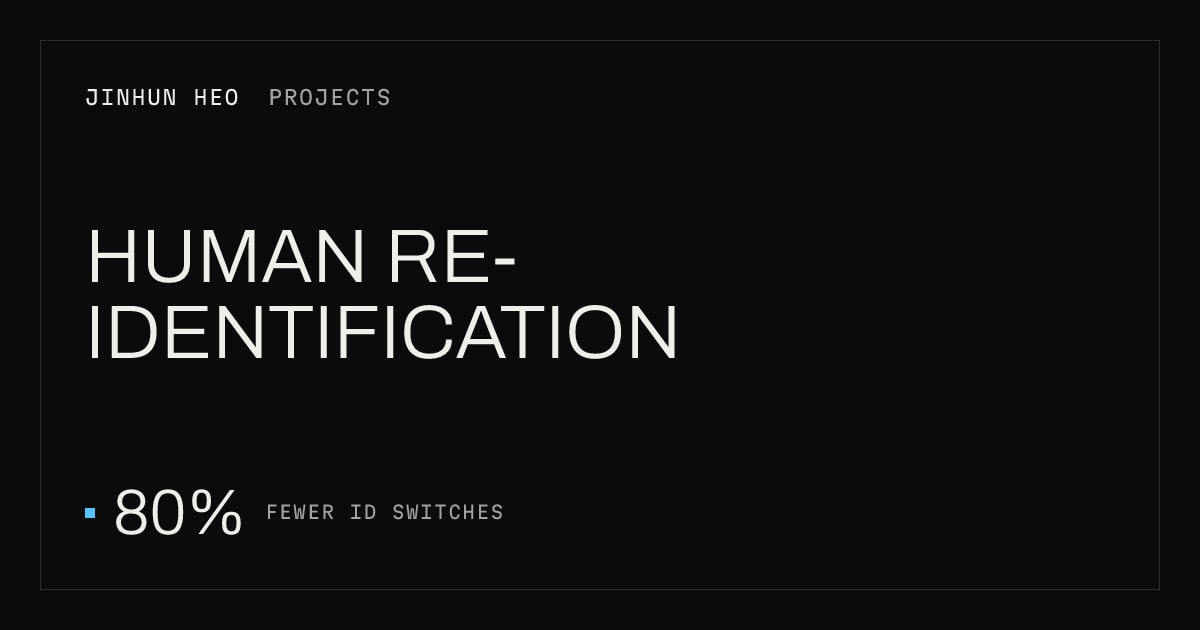
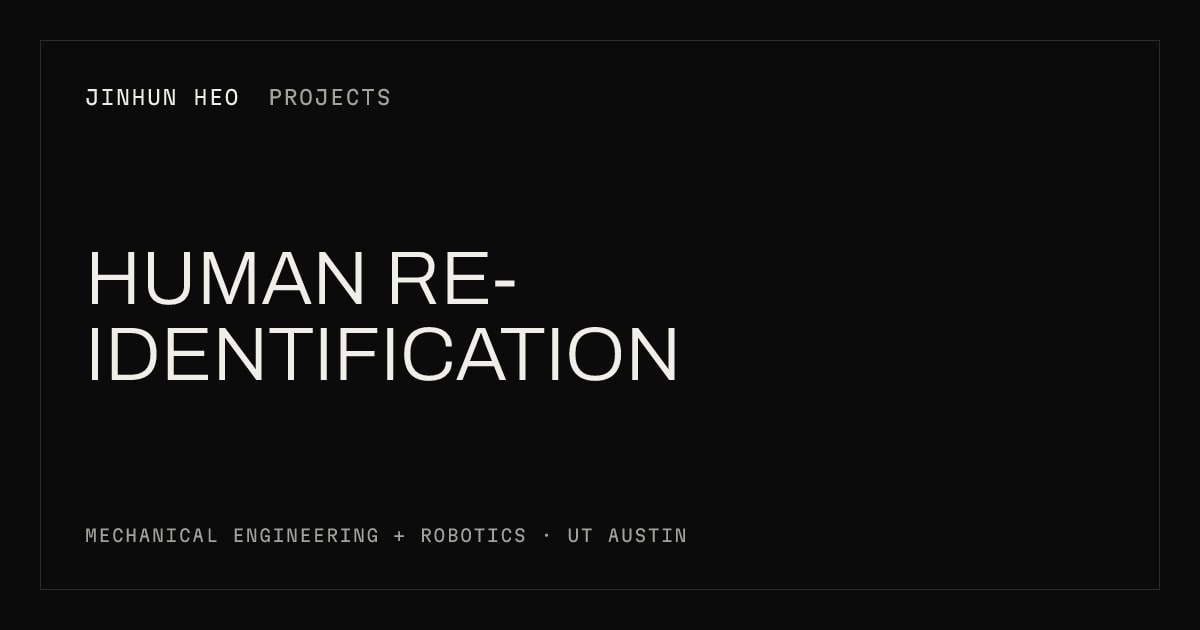
Rework the human re-identification page
- New summary, project overview and My role (three focus areas).
- Skills: add Python and Linux, drop RViz; add Python to the reaction wheel.
- Drop the 80% and 22 fps metrics.
- Gallery: the first three photos become one swipeable group beside the
  camera view; new captions for three of the videos.
- Regenerate the project's social preview.

Changed region(s): [[0.0617, 0.3619, 0.5858, 0.6032], [0.0617, 0.754, 0.4317, 0.8746], [0.4625, 0.8143, 0.5858, 0.8746]]

diff --git a/content/projects/human-re-identification.md b/content/projects/human-re-identification.md
@@ -5,20 +5,14 @@ order: 3
 org: Learning Agents Research Group, UT Austin
 role: Student researcher
 dates: Dec 2025 – May 2026
-skills: [ROS 2, PyTorch, CUDA, CNN models, Face recognition, RViz]
-description: "Real-time human re-identification on a Booster T1 humanoid for RoboCup@Home: two CNN models on ROS 2, 80% fewer ID switches, 22 fps."
+skills: [Python, Linux, ROS 2, PyTorch, CUDA, CNN models, Face recognition]
+description: "A real-time computer vision pipeline that lets a humanoid robot detect, track and re-identify people, built for the RoboCup@Home competition."
 summary: >-
-  A real-time system that lets a Booster T1 humanoid keep track of which person is
-  which, built for the RoboCup@Home competition. It cut ID switches by 80% and runs at
-  a stable 22 fps.
-metrics:
-  - value: "80"
-    unit: "%"
-    label: fewer ID switches
-    featured: true
-  - value: "22"
-    unit: fps
-    label: stable processing rate
+  A real-time computer vision pipeline, powered by a two-stage CNN architecture, that
+  enables a humanoid robot to detect, track and re-identify individuals across dynamic
+  camera feeds. Built for the challenging environments of the RoboCup@Home competition,
+  the system features a custom identity-persistence framework that combines facial
+  feature recognition with spatial tracking.
 cover: reid-card
 links:
   - url: https://github.com/jinhunheo/reid
@@ -27,29 +21,36 @@ links:
       The project's code on GitHub: a live ROS 2 pipeline with YOLO person detection,
       DeepSORT tracking and re-identification models, plus an EMANet re-identification
       network with its tests.
+# Each entry is one spot in the gallery. Entries with `slides:` are swiped through
+# with arrows.
 figures:
-  - image: reid-robot
+  - slides:
+      - image: reid-robot
+        kind: photo
+        alt: The Booster T1 humanoid robot standing on a wheeled stand in the lab, with a ZED stereo camera as its head.
+        caption: The Booster T1 humanoid, with a ZED stereo camera in its head.
+      - image: reid-robot-side
+        kind: photo
+        alt: Side view of the Booster T1 in the lab, next to desks with monitors and laptops.
+        caption: The Booster T1 humanoid, with a ZED stereo camera in its head.
+      - image: reid-workstation
+        kind: photo
+        alt: A workstation beside the robot, with a monitor showing the robot's camera feed in RViz and two laptops showing code.
+        caption: Development setup. The robot's camera feed in RViz, beside the laptops used to build the pipeline.
+  - image: reid-camera-view
     kind: photo
-    alt: The Booster T1 humanoid robot standing on a wheeled stand in the lab, with a ZED stereo camera as its head.
-    caption: The Booster T1 humanoid, with a ZED stereo camera in its head.
-  - image: reid-robot-side
-    kind: photo
-    alt: Side view of the Booster T1 in the lab, next to desks with monitors and laptops.
-    caption: The robot at the lab bench during testing.
-  - image: reid-workstation
-    kind: photo
-    alt: A workstation beside the robot, with a monitor showing the robot's camera feed in RViz and two laptops showing code.
-    caption: Development setup. The robot's camera feed in RViz, beside the laptops used to build the pipeline.
+    alt: A monitor showing the robot's camera view in RViz, with two people at desks in the frame.
+    caption: The robot's live camera view in RViz.
   - video: reid-crossing
     image: reid-crossing-poster
     kind: video
     alt: Video of two people with ID labels moving around and crossing in front of the robot's camera.
-    caption: Two tracked people, ID 0 and ID 1, cross in front of the robot.
+    caption: ID maintained after multiple occlusions (crossing paths), with similar clothing on top.
   - video: reid-enter-leave
     image: reid-enter-leave-poster
     kind: video
     alt: Video of people leaving and entering the robot's camera view, with bounding boxes and ID labels.
-    caption: People leave and enter the camera's view while the system assigns IDs.
+    caption: ID maintained on the person on the left after switching clothes, thanks to face recognition.
   - video: reid-walk-away
     image: reid-walk-away-poster
     kind: video
@@ -59,28 +60,35 @@ figures:
     image: reid-leave-view-poster
     kind: video
     alt: Video of a tracked person turning and walking out of the camera's view.
-    caption: A tracked person turns and walks out of view.
-  - image: reid-camera-view
-    kind: photo
-    alt: A monitor showing the robot's camera view in RViz, with two people at desks in the frame.
-    caption: The robot's live camera view in RViz.
+    caption: ID maintained even when the face was covered or the back was turned.
 ---
 
 ## Project overview
 
-RoboCup@Home tests robots on everyday tasks around people. To do that, a robot has to
-keep recognizing the same person as they move, step out of view and come back. Every
-time the tracker swaps two people's IDs, whatever the robot is doing for that person
-breaks.
+RoboCup@Home tests robots on everyday human-robot interaction tasks, such as greeting
+guests, seating them like a receptionist, remembering personal preferences and
+delivering the right food orders. To succeed, a robot must keep tracking each person's
+identity even when they step out of view, so it never mixes up guests or delivers an
+order to the wrong person. Dynamic competition environments add to the challenge:
+crowded spaces cause frequent occlusions as people walk behind one another, and guests
+may wear similar clothing.
 
 ## My role
 
-- A real-time re-identification pipeline on the Booster T1, combining two CNN
-  deep-learning models with a tracking algorithm on ROS 2.
-- Logic that keeps IDs stable using spatial tracking and an ID lifespan. ID switches
-  dropped by 80%.
-- Face recognition added to each person's profile, so an ID can be recovered after a
-  change in lighting or clothing.
-- CUDA acceleration for the PyTorch models, for a stable 22 fps.
-- A live monitoring interface that broadcasts bounding-box data, for validation and
-  debugging.
+My contribution was to architect the robot's human re-identification perception stack
+for the competition, keeping identity tracking stable through crowded rooms and visual
+edge cases without overloading the onboard compute.
+
+**Low-latency edge compute.** A two-stage CNN architecture (YOLO-Pose and OSNet),
+chosen over heavier Vision Transformers (ViTs) and VLMs to keep parameter counts and
+GFLOPs low while still capturing distinctive appearance features.
+
+**Clothing similarity and lighting variation.** A facial encoding gallery paired with
+the full-body tracker, which crops the upper bounding box to match faces. It recovers
+original IDs even when guests wear identical shirt colors or walk under shifting room
+lighting that changes how fabric colors register on camera.
+
+**Random ID switching and occlusion.** Custom spatial IoU constraints and track-lifespan
+seniority logic that anchor stationary targets to their previous bounding boxes and
+prioritize established tracks over newly spawned IDs. This keeps the tracker from
+swapping identities when people cross paths or briefly block the camera.

diff --git a/content/projects/reaction-wheel.md b/content/projects/reaction-wheel.md
@@ -5,7 +5,7 @@ order: 2
 org: Freshman Research Initiative, Space & Robotics Stream
 role: Student researcher
 dates: Jan – May 2026
-skills: [Onshape, Raspberry Pi, PID control, OpenCV, Flask, H-bridge + PWM]
+skills: [Onshape, Raspberry Pi, Python, PID control, OpenCV, Flask, H-bridge + PWM]
 description: "A reaction wheel testbed that stabilizes a rotating platform, stopping a hand spin within 0.5 s, and autonomously tracks a colored target."
 summary: >-
   A semester-long project where I designed, assembled, programmed and operated a
